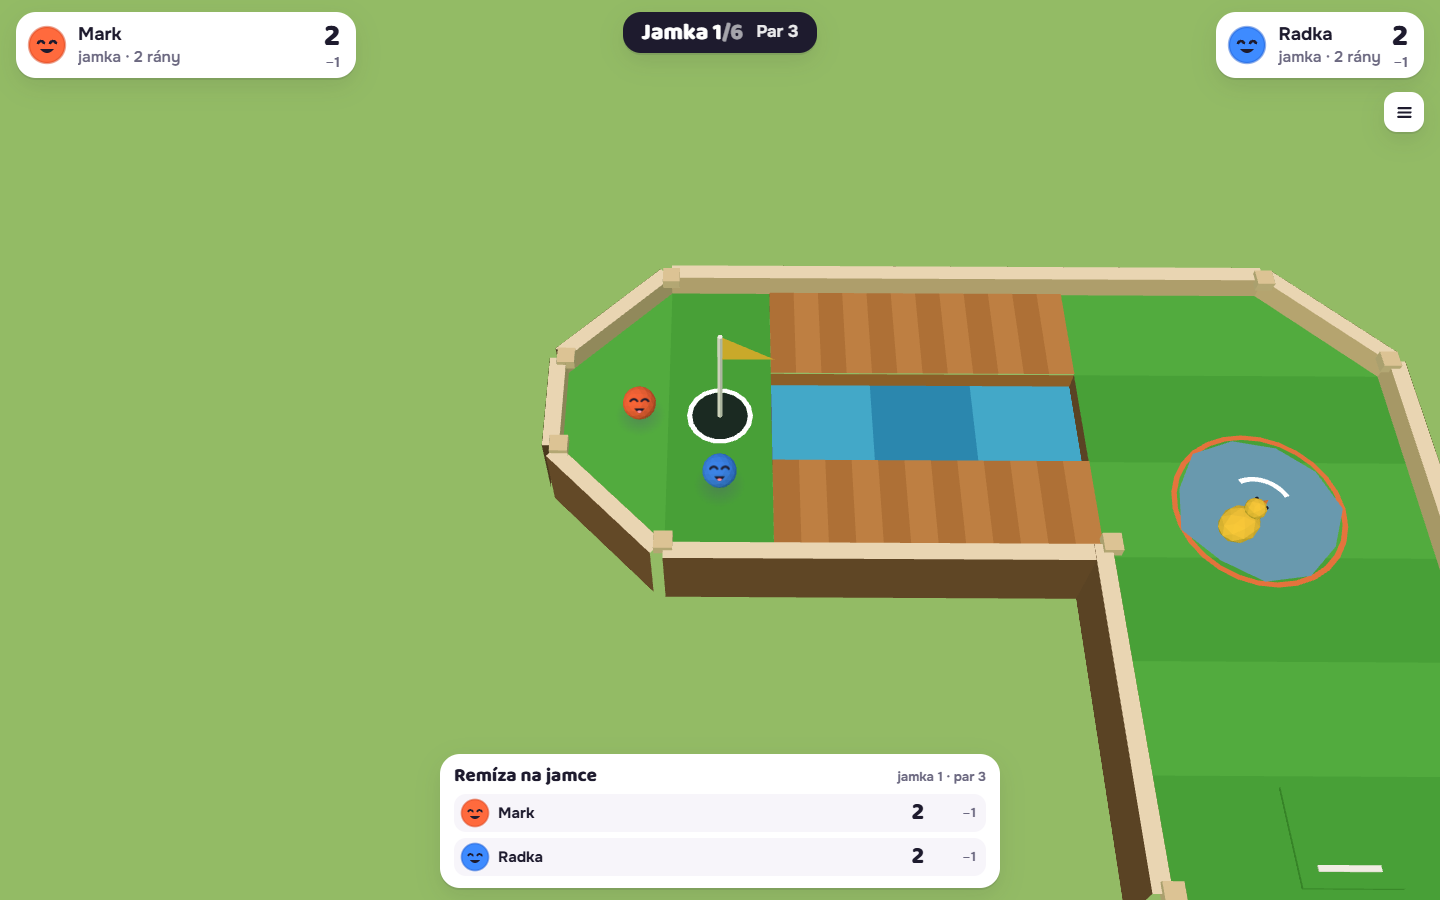
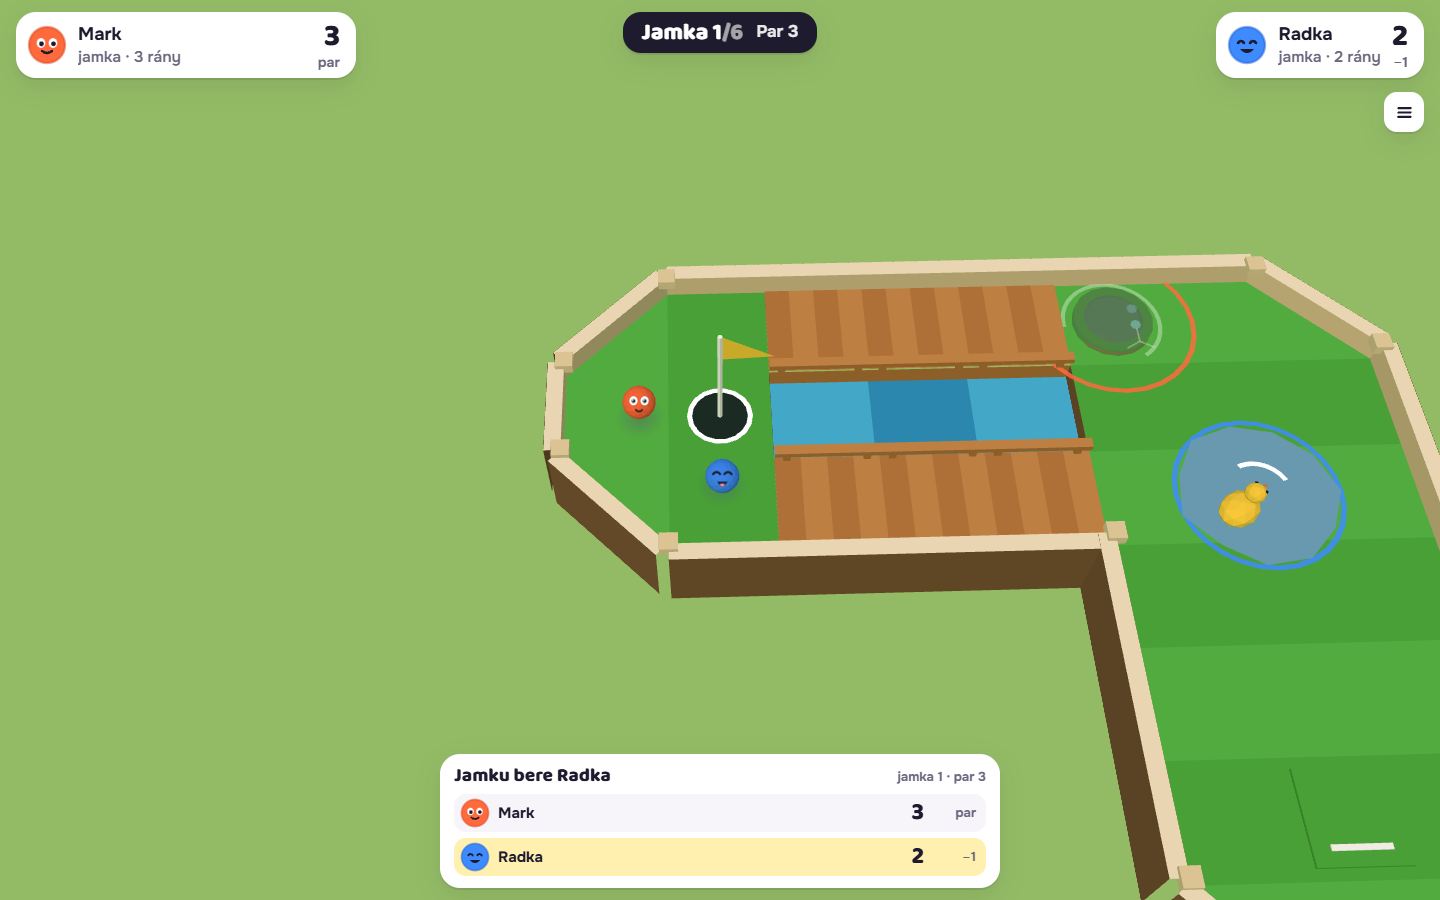
Design-eye 3. kolo PROFI: čitelný Fukar při stavění (plný, šipka směru, výchozí natočení), silnější prach a zábradlí; rendery kola, deník

diff --git a/src/scene.js b/src/scene.js
@@ -180,11 +180,12 @@ export function createScene(canvas) {
     for (const s of c.segs) {
       const dx = s[2] - s[0], dz = s[3] - s[1], l = Math.sqrt(dx * dx + dz * dz), nx = dz / l, nz = -dx / l;
       if (s[6]) {                                   // zábradlí mostu: nízká lať na dvou kolících, mírně nad vodou
-        const RH = 0.15, RT = 0.05, h0 = s[4] + 0.02;
+        // lať v barvě mantinelů (světlá horní hrana, tmavý bok), ať se od oranžových prken odliší
+        const RH = 0.17, RT = 0.07, h0 = s[4] + 0.02;
         const P = (f, o, y) => [s[0] + dx * f + nx * o, h0 + y, s[1] + dz * f + nz * o];
-        m.quad(P(0, -RT, RH), P(0, RT, RH), P(1, RT, RH), P(1, -RT, RH), th.plank);
-        m.quad(P(0, -RT, RH - 0.06), P(0, -RT, RH), P(1, -RT, RH), P(1, -RT, RH - 0.06), th.plank2);
-        m.quad(P(1, RT, RH - 0.06), P(1, RT, RH), P(0, RT, RH), P(0, RT, RH - 0.06), th.plank2);
+        m.quad(P(0, -RT, RH), P(0, RT, RH), P(1, RT, RH), P(1, -RT, RH), th.wall);
+        m.quad(P(0, -RT, RH - 0.08), P(0, -RT, RH), P(1, -RT, RH), P(1, -RT, RH - 0.08), th.wallSide);
+        m.quad(P(1, RT, RH - 0.08), P(1, RT, RH), P(0, RT, RH), P(0, RT, RH - 0.08), th.wallSide);
         for (const f of [0.12, 0.88]) {
           const q = 0.035, cx = s[0] + dx * f, cz = s[1] + dz * f;
           for (const [ax, az, bx, bz] of [[-q, -q, q, -q], [q, -q, q, q], [q, q, -q, q], [-q, q, -q, -q]])
@@ -382,9 +383,12 @@ export function createScene(canvas) {
       g.add(cloud); g.userData.cloud = cloud;
       const streaks = [];
       for (let i = 0; i < 6; i++) {
-        const sm = new THREE.Mesh(new THREE.PlaneGeometry(0.42, 0.045), new THREE.MeshBasicMaterial({ color: 0xffffff, transparent: true, opacity: 0.5, depthWrite: false }));
+        const sm = new THREE.Mesh(new THREE.PlaneGeometry(0.46, 0.07), new THREE.MeshBasicMaterial({ color: 0xffffff, transparent: true, opacity: 0.5, depthWrite: false }));
         sm.rotation.x = -Math.PI / 2; sm.userData.z = (i % 3 - 1) * J.FUK_W * 0.6; sm.userData.ph = i / 6; sm.position.set(0, 0.03, sm.userData.z); g.add(sm); streaks.push(sm);
       }
+      // šipka směru na trávě těsně před hubicí: směr je vidět i tam, kde proud hned naráží do zdi
+      const chev = new THREE.Mesh(new THREE.ShapeGeometry(new THREE.Shape([new THREE.Vector2(0, 0.3), new THREE.Vector2(0.36, 0), new THREE.Vector2(0, -0.3), new THREE.Vector2(0.11, 0)])), new THREE.MeshBasicMaterial({ color: owner, transparent: true, opacity: 0.95, depthWrite: false }));
+      chev.rotation.x = -Math.PI / 2; chev.position.set(J.FUK_B + 0.2, 0.025, 0); g.add(chev);
       g.userData.streaks = streaks; g.userData.reach = J.fukReach(c, t);
       g.rotation.y = -t.a * Math.PI * 2 / J.ROT;
     } else if (t.k === "vysavac") {
@@ -401,7 +405,8 @@ export function createScene(canvas) {
       swirl.rotation.x = -Math.PI / 2; swirl.position.y = 0.015; g.add(swirl); g.userData.swirl = swirl;
     }
     g.position.set(geo.x, h, geo.y);
-    if (ghostMode) g.traverse(o => { if (o.material) { o.material = o.material.clone(); o.material.transparent = true; o.material.opacity = 0.55; o.material.depthWrite = false; } });
+    // duch při stavění: průsvitný, jen fukar plný (jinak se ztratí obličej a směr, který hráč natáčí)
+    if (ghostMode && t.k !== "fukar") g.traverse(o => { if (o.material) { o.material = o.material.clone(); o.material.transparent = true; o.material.opacity = 0.55; o.material.depthWrite = false; } });
     g.userData.t = t; g.userData.ring = ring;
     return g;
   }
@@ -498,12 +503,12 @@ export function createScene(canvas) {
     if (s > 0.5 && o.vis) puff(o.x, o.y, s);
   }
   function puff(x, y, s) {
-    const z = J.surf(c, x, y).h, n = Math.round(4 + s * 4);
+    const z = J.surf(c, x, y).h, n = Math.round(6 + s * 6);
     for (let i = 0; i < n; i++) {
-      const m = new THREE.Mesh(partGeo.chip, new THREE.MeshBasicMaterial({ color: th.puff || "#FFFFFF", transparent: true, opacity: 0.8 }));
+      const m = new THREE.Mesh(partGeo.chip, new THREE.MeshBasicMaterial({ color: "#FFFFFF", transparent: true, opacity: 0.95 }));
       const a = i / n * Math.PI * 2 + Math.random() * 0.5;
-      m.position.set(x, z + 0.05, y); m.scale.setScalar(0.7 + Math.random() * 0.5);
-      m.userData.v = new THREE.Vector3(Math.cos(a) * 0.018 * s, 0.018 + Math.random() * 0.012, Math.sin(a) * 0.018 * s);
+      m.position.set(x, z + 0.05, y); m.scale.setScalar(1.4 + Math.random() * 0.9);
+      m.userData.v = new THREE.Vector3(Math.cos(a) * 0.026 * s, 0.02 + Math.random() * 0.014, Math.sin(a) * 0.026 * s);
       m.userData.life = 0.7; fx.add(m); parts.push(m);
     }
   }

diff --git a/src/main.js b/src/main.js
@@ -404,6 +404,8 @@ function pickTrap(k, quiet) {
   const keep = ui.ghost && ui.ghost.ok ? ui.ghost : null;
   let spot = keep ? { x: keep.x / 20, y: keep.y / 20 } : null;
   if (!spot || !J.trapValid(c, { k, x: keep.x, y: keep.y, a: 0, by: me() })) spot = cand.find(q => J.trapValid(c, { k, x: Math.round(q.x * 20), y: Math.round(q.y * 20), a: 0 })) || cand[0];
+  // fukar napoprvé míří tam, kam fouká nejdál (ne do zdi), ať je proud vidět hned
+  if (k === "fukar") { let best = -1; for (let a = 0; a < J.ROT; a += 2) { const r = J.fukReach(c, { k, x: Math.round(spot.x * 20), y: Math.round(spot.y * 20), a }); if (r > best + 1e-9) { best = r; ui.rot = a; } } }
   moveGhost(spot.x, spot.y);
   if (G && G.ph === "trap") paintDock();      // zvýrazní vybranou kartu a tlačítka
   if (!quiet) sound.lip();

diff --git a/docs/worklog.md b/docs/worklog.md
@@ -9,7 +9,11 @@ Hotovo:
 4. Výkon (`src/scene.js`): MSAA jen při DPR < 2; v klidu (nic se nehýbe, kamera stojí) se kreslí každý druhý snímek; když při pohybu > 60 % snímků přes 28 ms, sníží se rozlišení 2 → 1,65 → 1,3 → 1 (pod Playwrightem vypnuto, `navigator.webdriver`).
 5. Testy `tests/sim.test.cjs` +6 kontrol (finále/par 2/náledí+most, zábradlí, fukar odnese a stojící nechá, vlastní nepůsobí, vysavač pomalý chytí a rychlý projede, 288 úderů s novými pastmi pod limitem tiků); pevný případ propadnutí pasti dostal nový seed (836490882, nabídka se 6 druhy se změnila).
 Pozor: změna fyziky (zábradlí) a nabídky pastí mění jamky a pasti u rozehraných partií z dřívější verze (deníky akcí se přehrají jinak). Nové partie v pořádku.
-Další krok: výsledky testů, commit, design-eye na živém buildu (desktop + iPhone na výšku i na šířku, sekvence úderu), push, živý test na Pages, deník, zpráva nadřazené session.
+6. Kamera na výšku (`src/scene.js` `fitBall`, jen `aspect < 1`, subagent, commit cff552a): nové tvary jamek mají cestu delší než 8 políček, solver ji zkracoval na 6. Nové pořadí: celá → kratší (9,5/8,5/8) → celá při největším odstupu → plošší pohled (0,92/0,8) → kratší (7/6) → výš.
+7. Design-eye 3. kolo (`design/kolo-1-11/`, `tests/rendery-kolo.cjs`): NE-PROFI kvůli jediné vadě, Fukar při stavění nešel přečíst. Oprava: plný duch, šipka směru v barvě hráče, širší proud, výchozí natočení tam, kam fouká nejdál. K tomu silnější prach a zábradlí v barvě mantinelů. Delta kontrola: **PROFI**.
+Ověřeno (server 8808): `node tests/sim.test.cjs` exit 0 (35/35) · `node tests/solo.cjs` exit 0 (34 PASS) · `SCAN=1 node tests/kamera.cjs` exit 0 (288 záběrů) a plný `node tests/kamera.cjs` exit 0 (192) · `node tests/duel.cjs` exit 0 (36/36) · `node tests/herna.cjs` exit 0 (26 PASS) · `node tests/perf.cjs` exit 0: WebKit iPhone 13 emulace 18,5 FPS (dřív 17,7), Chromium mobil 61 FPS (dřív 48), JS vykreslení ~1 ms. První běh perf ukázal 3,7 FPS, ale šlo o souběžnou zátěž od jiných sessions (A/B proti aaded66).
+NEOVĚŘENO: skutečný iPhone (FPS, adaptivní rozlišení, vibrace jen Android, zvuk), duel a Herna po posledních vizuálních úpravách (měnily jen scénu), kamera mimo seedy 21/44/7/3. Výsledek jamky na iPhonu na výšku má nahoře ~300 px prázdné trávy (neblokující). Když fukar míří do zdi, šipka zmizí za mantinelem (neblokující).
+Dál: šipku fukaru kreslit nad mantinelem, zúžit záběr výsledku jamky na výšku, ověřit na skutečném telefonu.
 
 ## 2026-11-01 ~01:00 – iPhone na šířku (750×342, 844×390): rámování kamery, HUD, rychlejší sólo (session účtu P)
 Příčina, proč starý test na šířku prošel: měřil přesně stejný rozměr (Playwright `iPhone 13 landscape` = 750×342), ale kritérium bylo slabé. Stačilo, aby jamka nebyla uříznutá (celá ve volné ploše NEBO celá mimo obrazovku) a míček byl ve volné ploše, velký a ne moc vysoko. „Míček + trocha dráhy, jamka nahoře mimo obraz“ proto prošlo jako „jamka mimo obrazovku“. Nikdo nekontroloval, kolik cesty k jamce je vidět. Navíc se na šířku počítal pruh volné plochy přes celou šířku výšky panelu (panel je jen vpravo dole), takže zbývalo ~200 px.

diff --git a/README.md b/README.md
@@ -3,7 +3,7 @@
 **Hrát:** https://sachasportrezervace-arch.github.io/jamka-na-miru/
 
 Minigolf pro dva na jednom odkazu. 6 jamek, vyhrává, kdo má míň ran. Před každou jamkou postavíš soupeři past (mlýnek, louže,
-pérovačka, krtinec) a on tobě. Tvoje past tě nechá být. Každá partie má jiné jamky (generuje se ze seedu), takže se tři partie za sebou neopakují.
+pérovačka, krtinec, fukar, vysavač) a on tobě. Tvoje past tě nechá být. Každá partie má jiné jamky (generuje se ze seedu), takže se tři partie za sebou neopakují.
 
 ## Jak hrát
 
@@ -49,6 +49,7 @@ Playwright se bere z `%APPDATA%/npm/node_modules/playwright` (jinak proměnná `
 | `node tests/solo.cjs` | sólo režim: tlačítko „Zkusit sám“ → `#solo`, celá partie proti botovi v Chromiu i WebKitu iPhone 13, „Trénink“ v liště, žádná chyba v konzoli, žádný síťový požadavek mimo náš server (nic na mantledb), „Znovu“, „Vyzvat soupeře“ |
 | `node tests/herna.cjs` | napojení na Hernu: hra v iframe `tests/herna-host.html` (maketa Herny) ve 2 prohlížečích přes živý mantledb, zprávy protokolu, jména a sedadla, celá partie, `vysledek` jednou na okno, `jina-hra`, odveta, bez `#herna` jako dřív (~4 min) |
 | `node tests/pamet.cjs [seed]` | únik paměti scény (`renderer.info`) přes celou partii, výchozí WebKit iPhone na šířku |
+| `DEV=desktop,iphone,iphoneL node tests/rendery-kolo.cjs` | snímky do `design/kolo-1-11/`: stavění fukaru a vysavače, pasti venku, míření s náhledem dráhy, 90 ms po úderu, po doběhnutí (seed 32, jamka s mostem) |
 | `SEED=7 node tests/rendery.cjs` | rendery do `design/a-s<seed>-<zařízení>-<záběr>.png` (past, úder, výsledek, konec; desktop + iPhone, ~4 minuty; `KRATKE=1` bez konce; `UVOD=1` přidá `a-uvod-*.png`, úvod s „Zkusit sám“) |
 
 Snímky z `duel.cjs` jsou v `tests/shots/`. Háčky pro testy: `window.__jm` (`state`, `viewInfo`, `autoTrap`, `bot`, `shoot`, `scene`).

diff --git a/DENIK.md b/DENIK.md
@@ -12,4 +12,5 @@ PŘEVZATO 31. 10. – dodělává session na účtu P, jiná session sem nepíš
   Ověřeno živě: `curl` 200 pro stránku, `src/sim.js`, `vendor/three.module.min.js`, `manifest.webmanifest`;
   `node tests/duel.cjs <živá URL>` exit 0 (36/36 PASS, 3 prohlížeče, skutečný mantledb); `node tests/solo.cjs <živá URL>` exit 0 (34 PASS, 0 FAIL).
   Kontrola repa: žádná tajemství ani `.env*`, největší soubor vendor/three.module.min.js 676 kB, `tests/shots` 3,6 MB a `design/` 6,3 MB zůstaly v repu; přidán `.gitignore`.
+- 1. 11. odpoledne, kolo vylepšení (jamka-kolo): náhled skutečné dráhy, cvakání síly, zmáčknutí a prach při úderu; zábradlí mostů a férovější generátor (strop jamky 11 % → 5 %, finále bez paru 2); nové pasti Fukar a Vysavač; výkon mobilu (MSAA jen DPR<2, klidové snímkování, adaptivní rozlišení). Design-eye 3. kolo: **PROFI**. Testy a NEOVĚŘENO v docs/worklog.md.
   Zbývá / NEOVĚŘENO: reálný iPhone (perf běžel jen v emulovaném WebKitu, ~18 FPS v softwarovém vykreslování, orientačně); instalace na plochu iOS; ostrá hra dvou lidí přes skutečnou síť mimo test.
